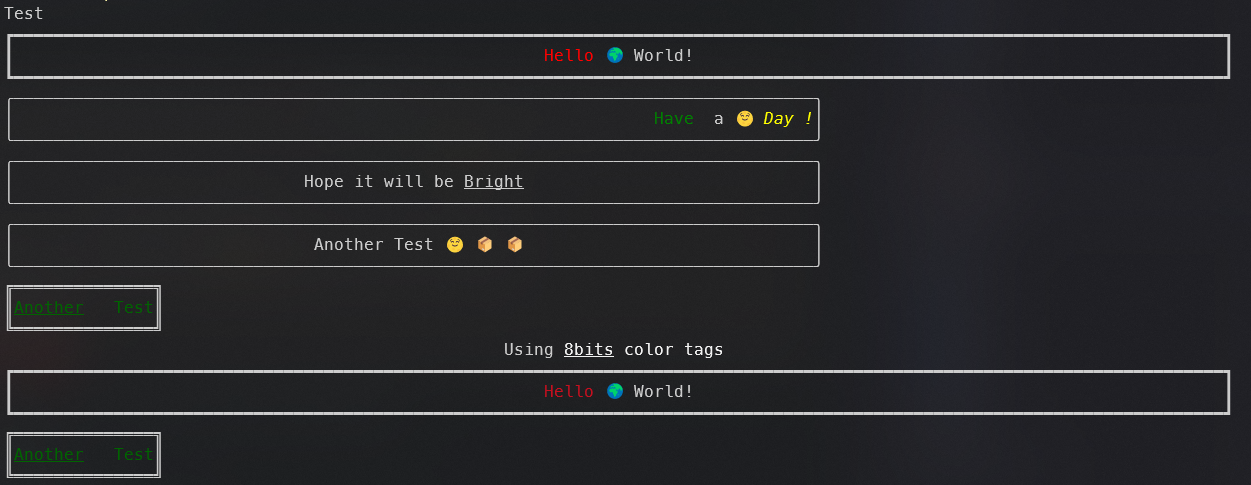
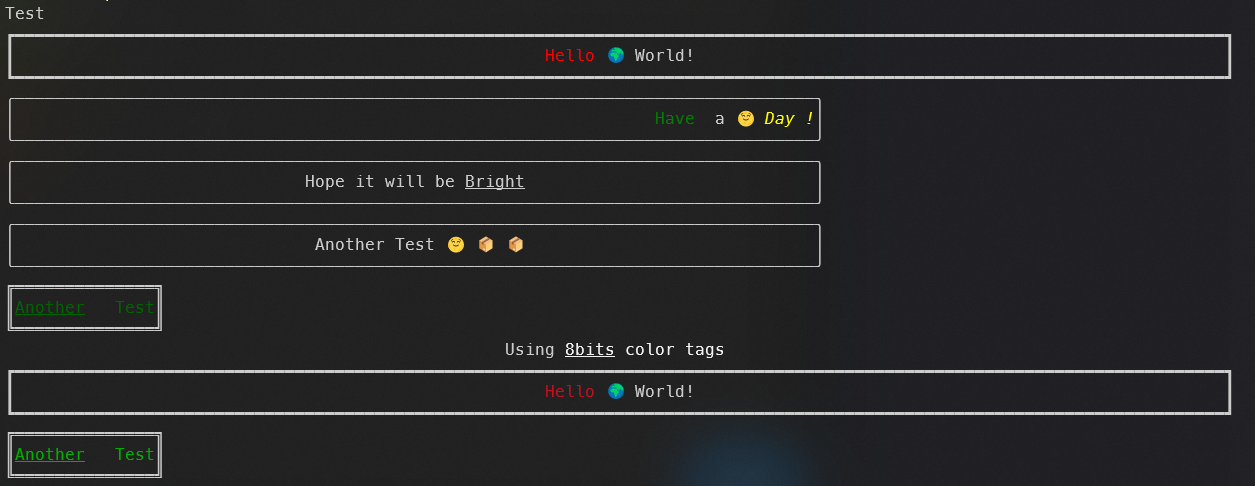
readme

diff --git a/Readme.md b/Readme.md
@@ -79,7 +79,7 @@ Write-Candy "<DarkGreen><Underline>Another</Underline>   Test</DarkGreen>" -Bord
 Write-Candy "Using <B><U>8bits</U><B> color tags" -fullscreen  -Align Center
 
 Write-Candy "<1>Hello</1> 🌍 World!" -width ($Host.UI.RawUI.BufferSize.Width -2) -Align Center -Border "Thick"
-Write-Candy "<DarkGreen><Underline>Another</Underline>   Test</DarkGreen>" -Border "Double"
+Write-Candy "<34><Underline>Another</Underline>   Test</34>" -Border "Double"
 ```
 
 The function accept the parameter from the pipe.
